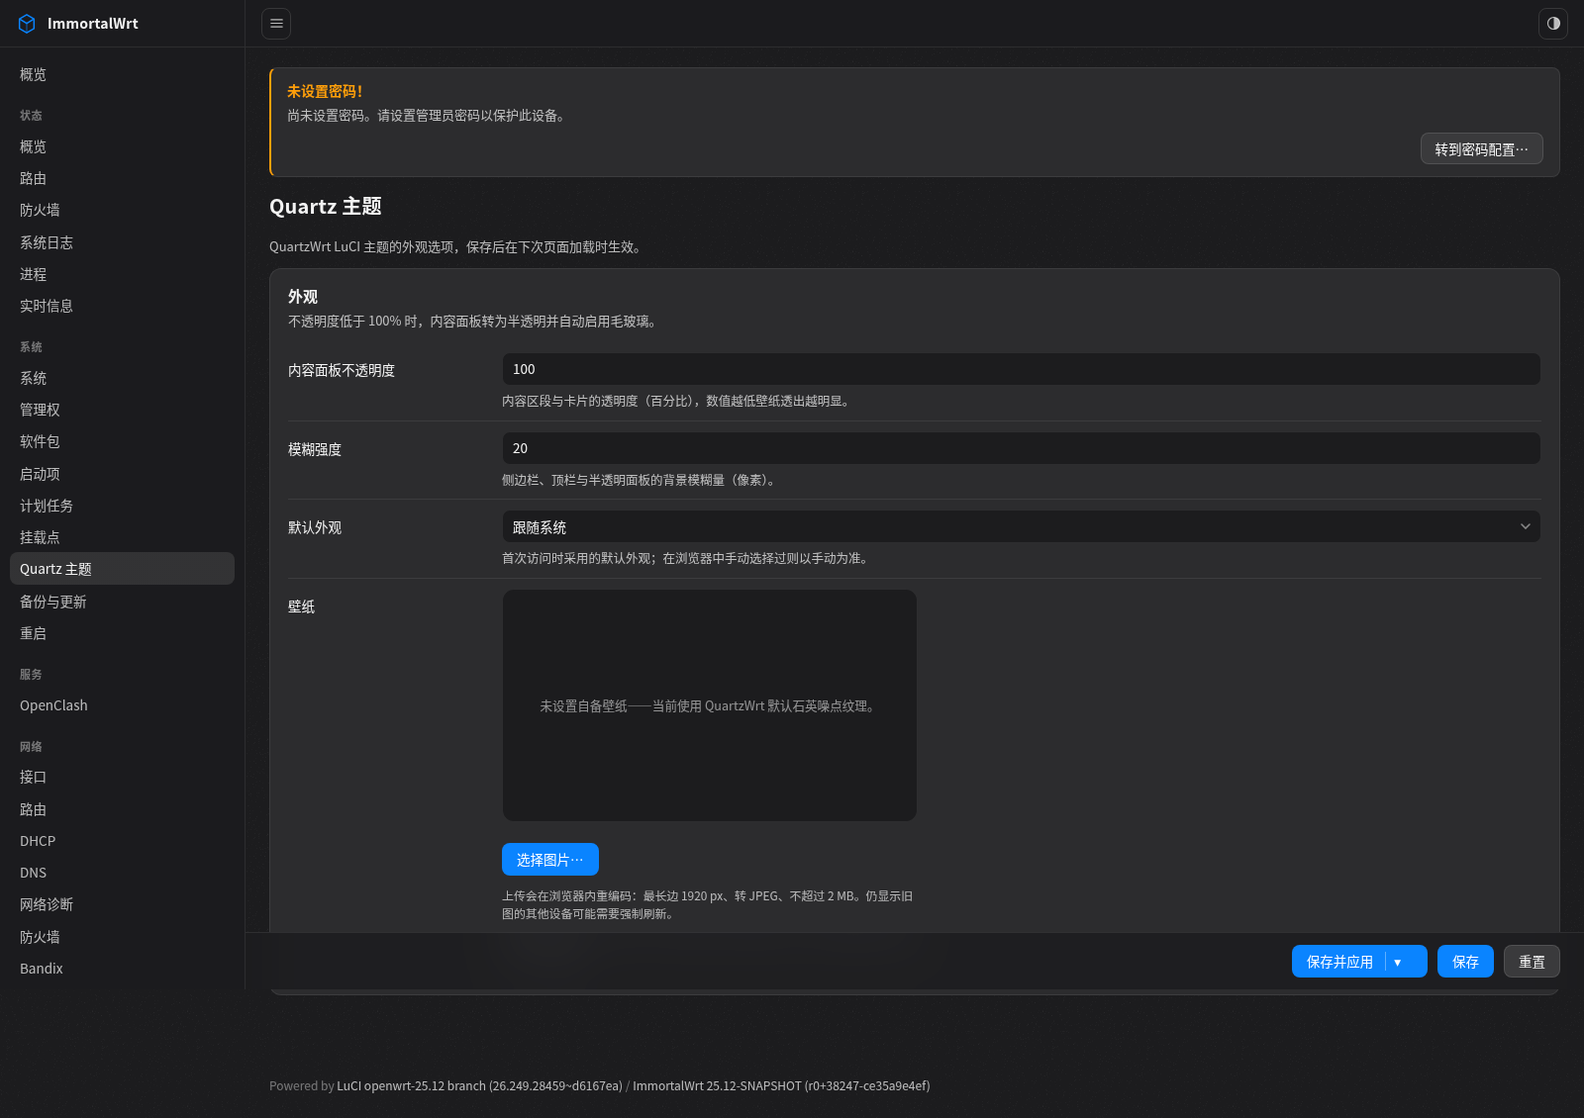
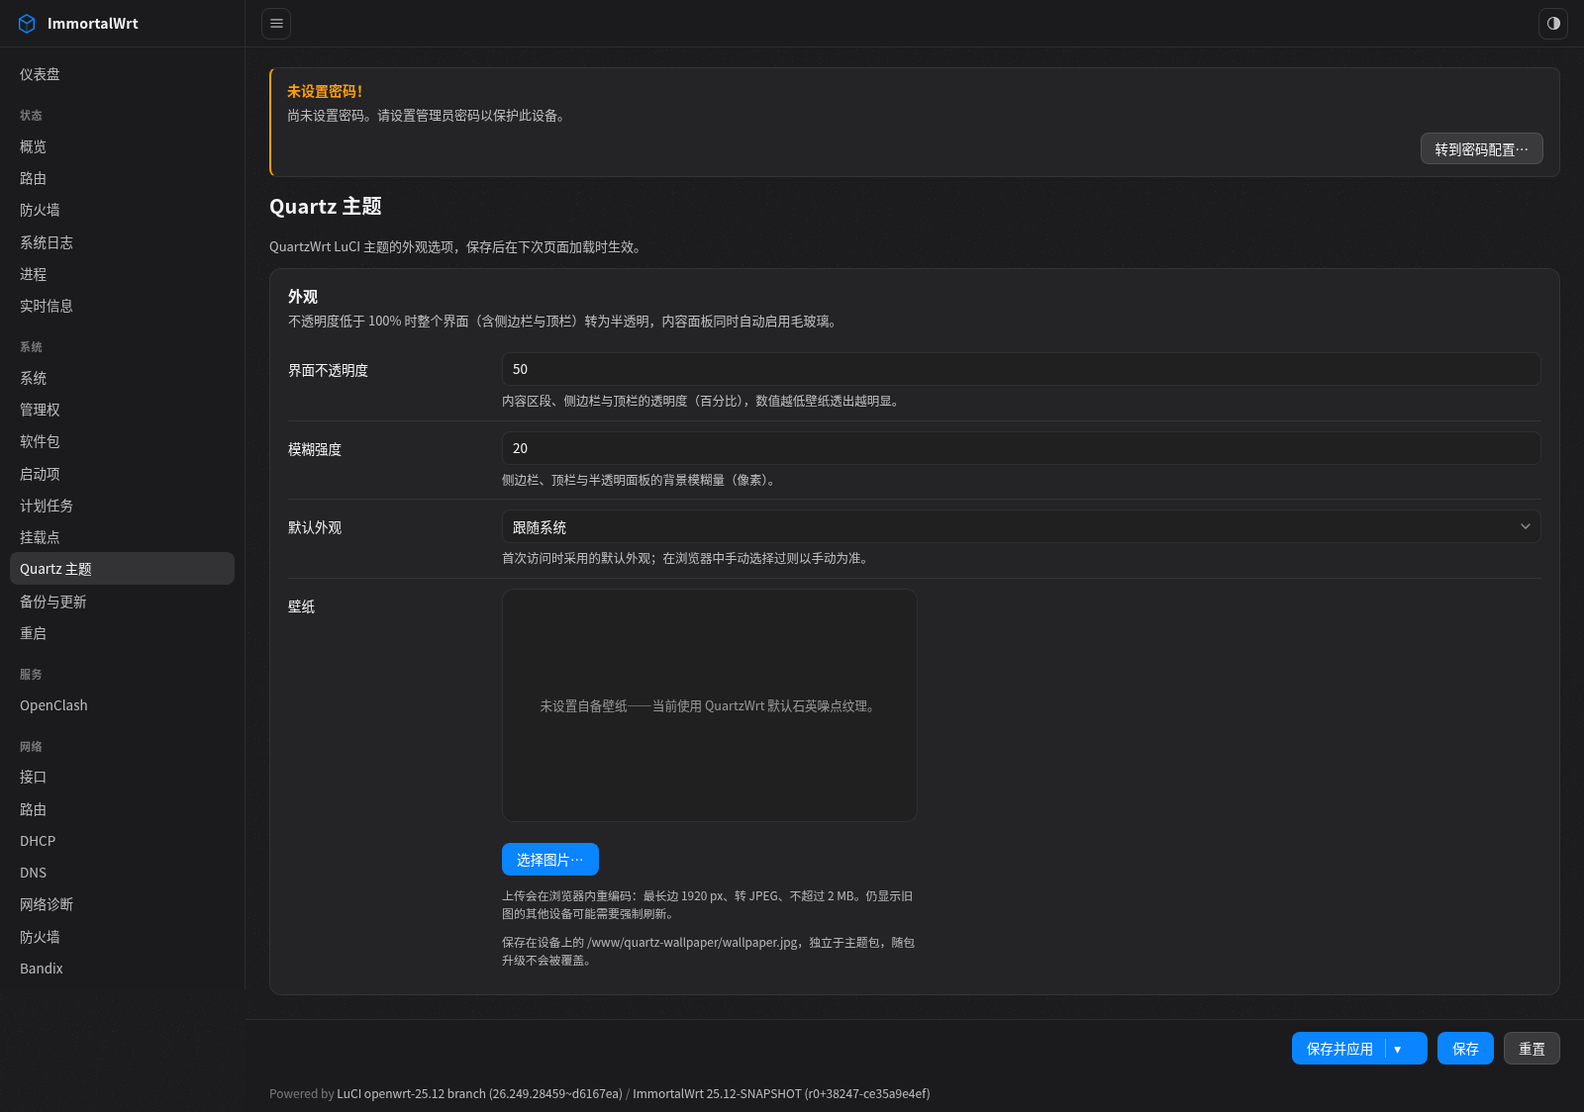
WP-2: W2.11 页底 chrome——页脚与贴底操作条同源材质；长截图免 sticky 悬停假象
用户实测两点（R1 反馈补充）：

① 页脚（版本行）透明、与上方半透明操作条不协调（且 --qz-text-3 直接压在壁纸上、
   可读性不足）→ footer 改为页底 chrome：`--qz-chrome` + `blur(var(--qz-blur))`，
   padding `0 24px 24px` → `8px 24px 10px`；有操作条时
   `body:has(.cbi-page-actions) footer { border-top: none }` 抑制自身描边（分隔线由
   操作条的上边框承担，两者合并为一条 chrome 面），无操作条（只读视图/仪表盘）时
   保留 1px 描边；`@supports not (backdrop-filter)` 与 `prefers-reduced-transparency`
   兜底列表同步纳入 footer（chrome 退化为实心）。§2.1/§3/§10/§12 与 DESIGN v1.4 同步。

② 长截图里操作条"唐突地悬在页面中部"＝ full_page 截图把 sticky 元素定格在"视口底部"
   的拼接假象（真实浏览始终贴视口底）→ `dev/vm-test/shoot.py` 新增 `--flat-actions`
   （全页截图前置 `position: static`，操作条回到文档流内的真实位置），README 与坑位说明
   同步；config 包 `dev/wallpaper-e2e.py` 的全页截图默认同法处理。

验证（VM 热更 + Playwright）：computed 复核——footer `background-color`
rgba(28,28,30,.4)/rgba(242,242,247,.36)（面板 α=.5）+ `blur(20px)`；有操作条页
`border-top-width: 0px`、无操作条页 `1px rgba(255,255,255,.08)`；页脚盒 [864,900]
紧接操作条 [806,864]（视口 900）连成一条带；证据 `dev/shots/footer-r1/`（长页 ×
双模 × 有/无壁纸 + 无操作条页 + 短页）。连带按新 CSS 重跑壁纸 E2E **15/15** 并重拍
证据（长图不再盖内容;用户壁纸先备份后按 md5 逐字节还原）。

diff --git a/luci/theme/luci-theme-quartz/root/www/luci-static/quartz/cascade.css b/luci/theme/luci-theme-quartz/root/www/luci-static/quartz/cascade.css
@@ -387,9 +387,23 @@ header {
 
 footer {
 	margin-left: var(--qz-sidebar-w);
-	padding: 0 24px 24px;
+	/* 页脚＝页底 chrome：与贴底操作条同源材质（半透明 + 模糊）——版本行不再直接压在
+	 * 壁纸/噪点上（可读性：--qz-text-3 在杂背景上不足），并与上方操作条连成一条
+	 * chrome 面（协调性）。有操作条时分隔线由它的上边框承担（见下方 :has 规则），
+	 * 只有单独处于页底时才自己画线。 */
+	padding: 8px 24px 10px;
 	color: var(--qz-text-3);
 	font-size: 12px;
+	background-color: var(--qz-chrome);
+	-webkit-backdrop-filter: blur(var(--qz-blur));
+	backdrop-filter: blur(var(--qz-blur));
+	border-top: 1px solid var(--qz-border);
+}
+
+/* 页面操作条在场（自带 1px 上边框）→ 页脚与它合并为同一条 chrome 面，不画缝。
+ * :has() 不被支持时退化为「始终画线」——仅多一道 .08 发丝缝，不损功能。 */
+body:has(.cbi-page-actions) footer {
+	border-top: none;
 }
 
 footer a {
@@ -1807,7 +1821,7 @@ body.qz-blank.modal-overlay-active #modal_overlay {
 		display: none;
 	}
 
-	#qz-sidebar, header, .cbi-page-actions, .modal.login, #modal_overlay {
+	#qz-sidebar, header, footer, .cbi-page-actions, .modal.login, #modal_overlay {
 		-webkit-backdrop-filter: none;
 		backdrop-filter: none;
 	}
@@ -1819,7 +1833,7 @@ body.qz-blank.modal-overlay-active #modal_overlay {
 		--qz-chrome: var(--qz-chrome-solid);
 	}
 
-	#qz-sidebar, header, .cbi-page-actions, .modal.login {
+	#qz-sidebar, header, footer, .cbi-page-actions, .modal.login {
 		-webkit-backdrop-filter: none;
 		backdrop-filter: none;
 	}

diff --git a/luci/applications/luci-app-quartz-config/dev/wallpaper-e2e.py b/luci/applications/luci-app-quartz-config/dev/wallpaper-e2e.py
@@ -39,6 +39,18 @@ SERVED_PATH = "/quartz-wallpaper/wallpaper.jpg"
 
 RESULTS = []
 
+# 全页截图是"整份文档"的拼接图，而贴底操作条（.cbi-page-actions）是 position: sticky 的
+# 视口相对 chrome——直接 full_page 截会把它定格在"视口底部"位置（长图里看起来悬在页面中部，
+# 盖住中段内容）。截图前解除 sticky，操作条回到文档流内的真实位置（= 用户滚到页底时看到的
+# 位置）；视口截图不受影响、仍呈现真实贴底行为。
+FLAT_ACTIONS_CSS = ".cbi-page-actions{position:static !important}"
+
+
+def shot(page, path, full_page=True):
+    if full_page:
+        page.add_style_tag(content=FLAT_ACTIONS_CSS)
+    page.screenshot(path=path, full_page=full_page, animations="disabled")
+
 
 def check(name, ok, detail=""):
     RESULTS.append({"check": name, "ok": bool(ok), "detail": str(detail)[:400]})
@@ -144,7 +156,7 @@ def main():
         check("初始态：无壁纸（图片/移除按钮隐藏）",
               not st["img_visible"] and not st["remove_visible"], json.dumps(st, ensure_ascii=False)[:200])
         check("初始态：data-qz-wallpaper 未置位", not st["attr"])
-        page.screenshot(path=os.path.join(outdir, "01-initial-dark.png"), full_page=True, animations="disabled")
+        shot(page, os.path.join(outdir, "01-initial-dark.png"))
 
         # ---- 上传 ----
         status, body = http_get(args.base + SERVED_PATH)
@@ -153,7 +165,7 @@ def main():
         upload(page, img1, "1920x1080")
         st = probe(page)
         log.append({"step": "uploaded", **st})
-        page.screenshot(path=os.path.join(outdir, "02-uploaded-dark.png"), full_page=True, animations="disabled")
+        shot(page, os.path.join(outdir, "02-uploaded-dark.png"))
         check("上传：客户端收敛为 1920x1080（页面回显）", "1920x1080" in (st["status"] or ""), st["status"])
         check("上传：预览图可见且非空 src", st["img_visible"] and (st["img_src"] or "").startswith(SERVED_PATH),
               st["img_src"])
@@ -173,7 +185,7 @@ def main():
         other.wait_for_selector("#qz-sidebar", timeout=15000)
         other.wait_for_timeout(2500)
         attr_other = other.evaluate("() => document.documentElement.hasAttribute('data-qz-wallpaper')")
-        other.screenshot(path=os.path.join(outdir, "03-overview-probe-dark.png"), full_page=False, animations="disabled")
+        shot(other, os.path.join(outdir, "03-overview-probe-dark.png"), full_page=False)
         log.append({"step": "overview-probe", "attr": attr_other})
         check("跨页：概览页 theme.js 探测命中 data-qz-wallpaper", attr_other)
 
@@ -181,7 +193,7 @@ def main():
         upload(page, img2, "1920x640")
         st = probe(page)
         log.append({"step": "replaced", **st})
-        page.screenshot(path=os.path.join(outdir, "04-replaced-dark.png"), full_page=True, animations="disabled")
+        shot(page, os.path.join(outdir, "04-replaced-dark.png"))
         status, body2 = http_get(args.base + SERVED_PATH)
         md5_2 = hashlib.md5(body2).hexdigest()
         check("替换：收敛为 1920x640（页面回显）", "1920x640" in (st["status"] or ""), st["status"])
@@ -191,7 +203,7 @@ def main():
         # ---- 移除 ----
         page.click("#qz-wallpaper-remove")
         page.wait_for_selector(".modal .cbi-button-remove", timeout=10000)
-        page.screenshot(path=os.path.join(outdir, "05-confirm-remove-dark.png"), full_page=False, animations="disabled")
+        shot(page, os.path.join(outdir, "05-confirm-remove-dark.png"), full_page=False)
         page.click(".modal .cbi-button-remove")
         page.wait_for_selector("#qz-wallpaper-remove", state="hidden", timeout=20000)
         page.wait_for_timeout(1000)
@@ -202,7 +214,7 @@ def main():
         check("移除：本页回落（无 data-qz-wallpaper、图片隐藏、移除按钮回隐藏）",
               (not st["attr"]) and (not st["img_visible"]) and (not st["remove_visible"]),
               json.dumps(st, ensure_ascii=False)[:200])
-        page.screenshot(path=os.path.join(outdir, "06-removed-dark.png"), full_page=True, animations="disabled")
+        shot(page, os.path.join(outdir, "06-removed-dark.png"))
 
         check("全程无页面 JS 异常", not errors, "; ".join(errors[:3]))
 

diff --git a/luci/theme/luci-theme-quartz/dev/vm-test/shoot.py b/luci/theme/luci-theme-quartz/dev/vm-test/shoot.py
@@ -11,6 +11,7 @@
   python3 shoot.py --mode light
   python3 shoot.py --mode dark --only v01_login
   python3 shoot.py --mode dark --from v30_network-interfaces
+  python3 shoot.py --mode dark --flat-actions     # 全页截图前解除贴底操作条 sticky（长图不再中段悬停）
 """
 import argparse, json, os, re, sys, time
 from playwright.sync_api import sync_playwright
@@ -56,7 +57,7 @@ def login(ctx, password=""):
             return pg, "LOGIN_FAILED: " + str(e2)[:120]
 
 
-def shoot(ctx, page, item, mode, outdir, settle_ms, ready_timeout):
+def shoot(ctx, page, item, mode, outdir, settle_ms, ready_timeout, flat_actions=False):
     name = item["id"]
     cons, fails, bad = [], [], []
     page.on("console", lambda m: cons.append(f"{m.type}: {m.text[:180]}") if m.type == "error" else None)
@@ -83,6 +84,12 @@ def shoot(ctx, page, item, mode, outdir, settle_ms, ready_timeout):
         rec["probe_err"] = str(e)[:80]
     png = os.path.join(outdir, name + ".png")
     try:
+        # --flat-actions：全页截图是"整份文档"的拼接图，而贴底操作条（position: sticky）
+        # 是视口相对的 chrome——直接截会把它定格在"视口底部"位置（长图里看起来悬在页面
+        # 中部）。截图前解除 sticky，操作条回到文档流内的真实位置（= 用户滚到页底时看到
+        # 的位置），长图因此不再有该假象（视口截图不受影响）。
+        if flat_actions:
+            page.add_style_tag(content=".cbi-page-actions{position:static !important}")
         page.screenshot(path=png, full_page=True, animations="disabled")
     except Exception as e:
         rec["error"] = "shot: " + str(e)[:100]
@@ -109,6 +116,8 @@ def main():
     ap.add_argument("--password", default="")
     ap.add_argument("--width", type=int, default=1500)
     ap.add_argument("--height", type=int, default=1000)
+    ap.add_argument("--flat-actions", action="store_true",
+                    help="全页截图前把贴底操作条置为 position: static（避免长图中段悬停假象）")
     args = ap.parse_args()
 
     pages = json.load(open(args.pages))
@@ -144,7 +153,7 @@ def main():
             pg0 = ctx0.new_page()
             pg0.goto(BASE + "/cgi-bin/luci/", wait_until="domcontentloaded", timeout=20000)
             pg0.evaluate(f"() => localStorage.setItem('qz-theme', '{args.mode}')")
-            rec = shoot(ctx0, pg0, item, args.mode, outdir, args.settle_ms, args.ready_timeout)
+            rec = shoot(ctx0, pg0, item, args.mode, outdir, args.settle_ms, args.ready_timeout, args.flat_actions)
             fh.write(json.dumps(rec, ensure_ascii=False) + "\n"); fh.flush()
             print(f"{'STUCK ' if rec.get('stuck') else 'OK '}{item['id']} h={rec.get('h')} {rec.get('ms')}ms")
             ctx0.close()
@@ -161,7 +170,7 @@ def main():
                 print(f"[{i}/{len(rest)}] {item['id']} 已存在，跳过")
                 continue
             page = ctx.new_page()
-            rec = shoot(ctx, page, item, args.mode, outdir, args.settle_ms, args.ready_timeout)
+            rec = shoot(ctx, page, item, args.mode, outdir, args.settle_ms, args.ready_timeout, args.flat_actions)
             page.close()
             fh.write(json.dumps(rec, ensure_ascii=False) + "\n"); fh.flush()
             flag = "STUCK " if rec.get("stuck") else ("ERR " if rec.get("error") else "OK ")

diff --git a/luci/theme/luci-theme-quartz/docs/DESIGN.md b/luci/theme/luci-theme-quartz/docs/DESIGN.md
@@ -1,8 +1,8 @@
 # luci-theme-quartz 设计规范
 
-**版本**: v1.3
+**版本**: v1.4
 **日期**: 2026-10-12（v1.3：2026-10-14）
-**状态**: 设计定案 + 实现完成（W2.0–W2.10 全量关闭；W2.7 锁定固件复核、W2.9 壁纸管理面 VM 验收 15/15、W2.10 R1 反馈轮 VM 复验）；进度与剩余项见 §10、§12
+**状态**: 设计定案 + 实现完成（W2.0–W2.10 全量关闭 + W2.11 页底 chrome）；W2.7 锁定固件复核、W2.9 壁纸管理面 VM 验收 15/15、W2.10 R1 反馈轮 VM 复验、W2.11 页脚材质 VM 复验；进度与剩余项见 §10、§12
 **依据**: TDD §3.3（`QuartzWrt-Builder/docs/TDD.md`）；视觉参照 [macOS Vibrancy · StyleKit](https://www.stylekit.top/zh/styles/macos-vibrancy)（2026-10-12 抓取提取）
 
 ---
@@ -40,7 +40,7 @@
 | `--qz-bg-panel` | `rgba(44,44,46,α)` | `rgba(255,255,255,α)` | 内容面板、卡片、字段集（α = `--qz-panel-alpha`，默认 1） |
 | `--qz-bg-raised` | `#3a3a3c` | `#ffffff` + 描边 | 按钮等抬升元素（保持不透明） |
 | `--qz-bg-well` | `rgba(28,28,30,α)` | `rgba(242,242,247,α)` | 输入框、代码块等"下沉"面 |
-| `--qz-chrome` | `rgba(28,28,30,α×.80)` | `rgba(242,242,247,α×.72)` | 侧边栏 / 顶栏 / 页面操作条 / 模态遮罩，叠加 `blur(20px)`；**透明度与内容面板同源**（`.72`/`.80` 是 `α=1` 时的基准值，配置调低时整界面同步变透，chrome 恒比面板更透） |
+| `--qz-chrome` | `rgba(28,28,30,α×.80)` | `rgba(242,242,247,α×.72)` | 侧边栏 / 顶栏 / 页面操作条 / 页脚（版本行） / 模态遮罩，叠加 `blur(20px)`；**透明度与内容面板同源**（`.72`/`.80` 是 `α=1` 时的基准值，配置调低时整界面同步变透，chrome 恒比面板更透） |
 | `--qz-scrim` | `rgba(28,28,30,.45)` | `rgba(242,242,247,.55)` | 壁纸与内容之间的压暗/提亮层（保证对比度） |
 
 暗色三级灰直接取自参考稿。浅色不反相：macOS 亮色下"抬升"是白、面板也是白（靠描边区分），"下沉"面用灰（systemGray6 系）。
@@ -107,6 +107,7 @@
 | 模态（cbi-modal） | 遮罩 = scrim + blur；面板 = `--qz-bg-panel` + `--qz-radius` + 2px 阴影（阴影唯一使用点） |
 | 通知（LuCI ui.js） | 深/浅面板 + 左侧 2px 状态色条（彩色仅作提示条，不作底） |
 | 徽标 / Badge | 8px 圆角矩形 + 状态色文字 |
+| 页脚（版本行） | **页底 chrome**：`--qz-chrome` + blur；与贴底操作条相邻时由操作条的上边框承担分隔、两者合并为一条 chrome 面（`:has(.cbi-page-actions)` 抑制自身描边），独处页底时自己画 1px 描边；`--qz-text-3` + 12px 保持"页脚注脚"层级 |
 | 登录页 | 品牌时刻：壁纸直出 + chrome 材质卡片浮层 + wordmark（SVG） |
 
 **版式密度**：参考稿是 hero 大标题、大间距的展示型页面；LuCI 是高密度管理界面。风格 DNA 全盘保留，版式按管理界面重设——正文基准 14px（text-sm），大标题体系仅登录页与 Dashboard hero 使用。
@@ -251,6 +252,7 @@ luci/applications/luci-app-quartz-config/
 | W2.8 | 外观配置包 `luci-app-quartz-config`（面板透明度/模糊强度/默认外观） | W2.3 |
 | W2.9 | 壁纸管理面（配置包内上传/替换/移除；客户端收敛 + ACL 最小化 + sysupgrade 保留） | W2.3 / W2.8 |
 | W2.10 | ✅ R1 用户实测反馈（2026-10-14）：`panel_opacity` 语义扩为全界面（chrome 跟随面板，§2.1/§5.1）+ 修 ucode 整除致 `--qz-panel-alpha: 0`（`/100.0`）+ 配置页文案同步 | W2.8 / W2.9 |
+| W2.11 | ✅ R1 反馈补充（2026-10-14）：页脚改为页底 chrome（与贴底操作条同源材质、相邻时合并为一条 chrome 面，§3） | W2.4 |
 
 **验收标准**：① 主题可编译进固件（单包编译 + CI 全量双保险）；② 原生 cbi 页面未被污染（preview 注入对比 + 真机/虚拟机过一遍 firewall 等复杂页）；③ 双模在 preview 页评审通过；④ 性能护栏达标（§6）。
 
@@ -277,6 +279,7 @@ luci/applications/luci-app-quartz-config/
   ④ 静态资源：`/www/luci-static/quartz/` 五件（cascade.css/theme.js/logo.svg/noise-{dark,light}.png）与源码仓库 **sha256 逐字节一致**（未过 csstidy/JsMin，坑位 #15 规避生效）；
   ⑤ 端到端：登录页 HTML 引用 `luci-static/quartz/{cascade.css,theme.js,logo.svg}` 且含 `data-qz-default`/`qz-*` 标记——主题确实渲染。
   证据：本节命令行记录 + `dev/shots/vm-test-{dark,light}/`（此前 59 页×双模全量截图）。
+- ✅ **W2.11 页脚页底 chrome（2026-10-14，R1 反馈补充，用户实测「页脚版本行透明、与上方半透明操作条不协调」）**：`footer` 由裸文本改为 `--qz-chrome` + `blur(var(--qz-blur))` 的页底 chrome 面，padding 调整为 `8px 24px 10px`；有页面操作条时 `body:has(.cbi-page-actions) footer{border-top:none}` 抑制描边、两者合并为一条 chrome 面（分隔线由操作条上边框承担），无操作条时保留 1px 描边；`@supports not (backdrop-filter)` 与 `prefers-reduced-transparency` 兜底列表同步纳入 `footer`（此时 chrome 退化为实心、去模糊）。**VM 复验**（用户壁纸 + 不透明度 50% 的实机态）：computed `background-color: rgba(28,28,30,.4)`/`rgba(242,242,247,.36)` + `blur(20px)`；有操作条页 `border-top-width: 0px`、无操作条页 `1px rgba(255,255,255,.08)`；页脚盒 [864,900] 紧接操作条 [806,864]（视口 900）连成一条带。证据 `dev/shots/footer-r1/`（长页×双模×壁纸/无壁纸 + 无操作条 + 短页）。
 - ✅ **单包编译验证（随每次全量构建持续复核）**：`luci-theme-quartz` apk 每次固件构建产出并在 manifest 在列（x86_64 与 rockchip/armv8 双目标；镜像级三层验证见 WORKPLAN §7 日志 2026-10-12 条目）。
 - ✅ **W2.9 壁纸管理面（2026-10-14，本对话，用户指令「WP-2 的壁纸功能没加上，在 config 软件包里加进去」）**：把 DESIGN §4「机制先行、上传 UI 后置」的欠账补进 `luci-app-quartz-config`——配置页新增壁纸区块（预览 + 体积/尺寸/更新时间 + 上传/替换/移除），客户端收敛（源图 ≤25MB 护栏、最长边 ≤1920px、转 JPEG 压平透明、逐档降质至 ≤2MB），上传走 `cgi-upload`（同请求 `filemode=644`）、移除走 rpcd `file remove`；ACL 只逐字授权单一路径 + 所需方法；投放目录随包创建、`/lib/upgrade/keep.d` 保 sysupgrade 后保留。**验收 15/15**（VM 预览台 Playwright：初始/上传/跨页探测/替换/移除 + 服务端 200/JPEG 魔数 + mode=644 + 无 JS 异常），证据 `dev/shots/vm-wallpaper/`，工具 `dev/wallpaper-e2e.py`。全程**零主题改动**（机制与探测路径原样复用）。
 
@@ -301,3 +304,4 @@ luci/applications/luci-app-quartz-config/
 *2026-10-14 v1.1 —— W2.7 收尾：默认主题与模板/注册/资源机制在锁定固件上逐项复核通过，WP-2 全量关闭（见 §10 实现状态）。*
 *2026-10-14 v1.2 —— W2.9 壁纸管理面：上传/替换/移除落地配置包（§5.1），§4 补约束与缓存语义，§12 勾销"壁纸上传 UI"后置项。*
 *2026-10-14 v1.3 —— W2.10 R1 用户实测反馈轮（三条现象中的两条属主题）：①**`panel_opacity` 语义扩为全界面**——`--qz-chrome` 改为 `rgba(var(--qz-chrome-rgb), calc(var(--qz-panel-alpha) * var(--qz-chrome-base-alpha)))`（§2.1 token 表 / §5.1），侧边栏/顶栏/页面操作条/登录卡随面板同步变透，`α=1` 时与旧值逐字节等价；②**修 `header.ut` ucode 整除**——`panel_opacity / 100` 两侧皆 int 时为整除，`50/100 → 0` 使 `--qz-panel-alpha: 0`（面板全透明），改 `/ 100.0`（坑位 #48）；③配置页选项文案随语义更新（"内容面板不透明度"→"界面不透明度"，zh 同步）。VM 热更复验：50% → 面板 .5 / chrome .36，100% → 面板 1 / chrome .72（默认观感零变化）。*
+*2026-10-14 v1.4 —— W2.11（R1 反馈轮补充，用户实测「页脚版本行透明、与上方半透明操作条不协调」）：**页脚改为页底 chrome**——`--qz-chrome` + `blur()`，版本行不再直接压在壁纸/噪点上（`--qz-text-3` 在杂背景上可读性不足），且与贴底操作条连成一条 chrome 面；有操作条时用 `body:has(.cbi-page-actions) footer { border-top: none }` 抑制页脚描边（分隔线由操作条上边框承担），无操作条（只读视图/仪表盘）时保留 1px 描边；`@supports`/`prefers-reduced-transparency` 兜底列表同步纳入 `footer`。padding `0 24px 24px` → `8px 24px 10px`（成条后文字垂直居中）。§2.1/§3 同步。*

diff --git a/luci/theme/luci-theme-quartz/dev/vm-test/README.md b/luci/theme/luci-theme-quartz/dev/vm-test/README.md
@@ -26,6 +26,7 @@ python3 shoot.py --mode dark                     # 全量暗色 → ../shots/vm-
 python3 shoot.py --mode light --password quartz  # 全量浅色 → ../shots/vm-test-light/
 python3 shoot.py --mode dark --only v18_system-quartz-theme   # 单页
 python3 shoot.py --mode dark --from v30_network-interfaces    # 断点续跑（run-log.jsonl 去重）
+python3 shoot.py --mode dark --flat-actions                   # 长图免"操作条中段悬停"假象（见下）
 ```
 
 ## 页面清单（pages.json）
@@ -41,8 +42,10 @@ python3 shoot.py --mode dark --from v30_network-interfaces    # 断点续跑（r
 ## 已知注意事项
 
 - **sticky 应用条**：主题的 `.cbi-page-actions` 是 `position: sticky`（贴底 chrome，设计如此）。
-  全页截图时它悬停在"视口底部"位置，会盖住中段一小条内容——截图假象，非渲染缺陷；
-  需要完整证据时以 DOM 行数（run-log 的 view 长度）交叉验证。
+  **全页截图会把它定格在"视口底部"位置**——长图里看起来"悬在页面中部"并盖住中段一小条内容，
+  是截图拼接的假象（真实浏览始终贴视口底，视口截图可证），非渲染缺陷。**要出干净长图加
+  `--flat-actions`**：截图前把该条置为 `position: static`，它回到文档流内的真实位置
+  （= 滚到页底时看到的位置）。需要完整证据时另以 DOM 行数（run-log 的 view 长度）交叉验证。
 - **实时图表白底**：负载/带宽图表为 LuCI 上游 `view/status/load.js` 内联 `background:#fff`，
   暗色下亦为白底（bootstrap 同）——上游行为，非主题缺陷。
 - **未登录状态**：登录页（v01）在独立无会话 context 中截图；若 VM 已设 root 密码，
